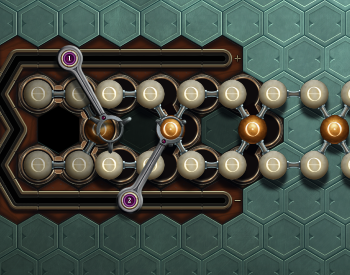
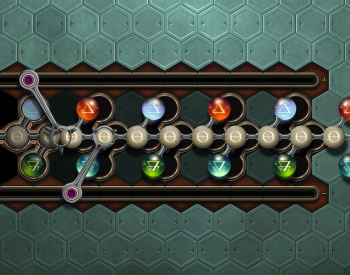
puzzle unlocks, vignette changes, other tweaks

diff --git a/ReductiveMetallurgyCampaign/ReductiveMetallurgyCampaign.cs b/ReductiveMetallurgyCampaign/ReductiveMetallurgyCampaign.cs
@@ -220,6 +220,18 @@ public class MainClass : QuintessentialMod
 			if (campaignChapter.field_2310 == 1) campaignChapter.field_2321 = true;
 			foreach (var campaignItem in campaignChapter.field_2314)
 			{
+				// convert unlock requirement if needed
+				if (campaignItem.field_2326.GetType() == typeof(class_243))
+				{
+					class_243 stringUnlockRequirement = (class_243) campaignItem.field_2326;
+					int n;
+					if (int.TryParse(stringUnlockRequirement.field_2005, out n))
+					{
+						campaignItem.field_2326 = new class_265(n);
+					}
+				}
+
+				// process the puzzle, if it exists
 				if (campaignItem.field_2325.method_1085())
 				{
 					Puzzle puzzle = campaignItem.field_2325.method_1087();
